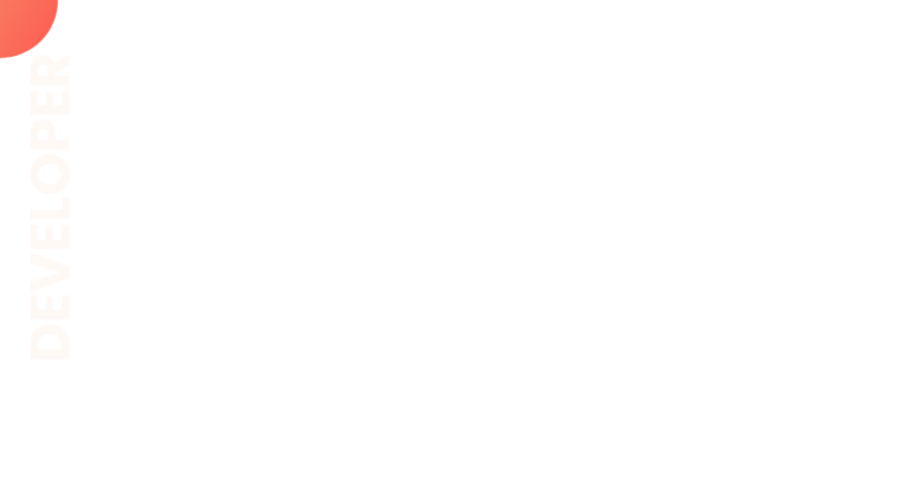
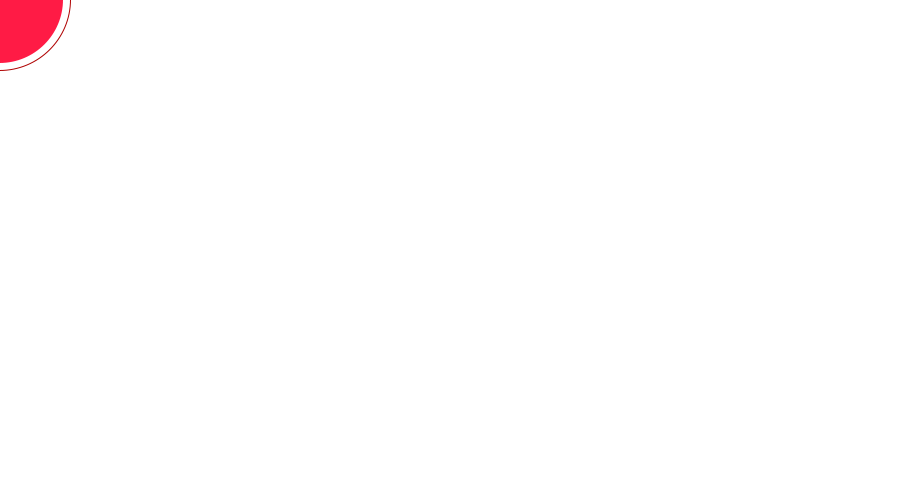
complete

Changed region(s): [[0.0, 0.0, 0.0935, 0.15]]

diff --git a/index.html b/index.html
@@ -8,55 +8,81 @@
     <title>Khairul Istiyak</title>
     <link rel="preconnect" href="https://fonts.googleapis.com">
     <link rel="preconnect" href="https://fonts.gstatic.com" crossorigin>
-    <link href="https://fonts.googleapis.com/css2?family=Lato&family=Poppins&display=swap" rel="stylesheet">
+    <link href="https://fonts.googleapis.com/css2?family=Open+Sans&display=swap" rel="stylesheet">
     <link rel="stylesheet" href="style.css">
 </head>
 
 <body>
-    <section class="top-back">
+    <section class="top-backround flexible-container">
         <div class="half-width">
-            <h1>Welcome To <br><span class="name">World cute</span> baby girl</h1>
-            <h1></h1>
+            <h1>Welcome To</h1>
+            <h1><span>World cute baby</span> girl</h1>
             <h3>Baby Girl Quotes to Celebrate Your Bundle of Joy.</h3>
             <hr>
             <p>A little girl is sugar and spice and everything nice—especially when she's taking a nap. Anonymous
-                Just when you think you know love, something little comes along to remind you just how big it really is.
-                AnonymousI'll love you forever, I'll like you for always, as long as I'm living my baby you'll be.
-                Robert N. MunschI'll love you forever, I'll like you for always, as long as I'm living my baby you'll
-                be.Robert n.
-            </p>
+                Just
+                when
+                you think you know love, something little comes along to remind you just how big it really is.
+                AnonymousI'll
+                love you forever, I'll like you for always, as long as I'm living my baby you'll be. Robert N.
+                MunschI'll
+                love you forever, I'll like you for always, as long as I'm living my baby you'll be.Robert n.</p>
             <hr><br>
-            <a class="albumes" target="_blank"
-                href="https://www.facebook.com/media/set/?set=a.956227351861817&type=3">Albums</a>
+            <a target="_blank" class="link-button" href="https://www.youtube.com/c/KhairulIstiyak">Youtube</a>
         </div>
-        <div class="half-width img">
-            <img src="images/my-bg2.png" alt="mamoni" style="width:500px">
+        <div class="half-width">
+            <img src="images/my-bg.png" alt="">
+        </div>
 
-        </div>
     </section>
-
-
-    <section class="queen">
-        <div class="half-width-2">
-            <img src="images/my-bg4.png" alt="" style="width:500px">
-
+    <section class="queen-girl flexible-container">
+        <div class="half-width">
+            <img src="images/my-bg2.png" alt="">
         </div>
 
-        <div class="half-width-2">
-            <h1><span class="name">Queen</span> girl</h1>
-            <h3> Queen of children.</h3>
-            <p class="mam">A little girl is sugar and spice and everything nice—especially when she's taking a nap.
-                Anonymous
-                Just when you think you know love, something little comes along to remind you just how big it really is.
+        <div class="half-width">
+            <h1>Queen <span>girl</span></h1>
+            <h3>Queen of children.</h3>
+            <hr>
+            <P>A little girl is sugar and spice and everything nice—especially when she's taking a nap. Anonymous Just
+                when you think you know love, something little comes along to remind you just how big it really is.
                 AnonymousI'll love you forever, I'll like you for always, as long as I'm living my baby you'll be.
                 Robert N. MunschI'll love you forever, I'll like you for always, as long as I'm living my baby you'll
-                be.Robert n.
-            </p>
-            <a class="albumes" target="_blank"
-                href="https://www.facebook.com/media/set/?set=a.956227351861817&type=3">Let's go albums</a>
+                be.Robert n.</P>
+            <hr><br>
+            <a target="_blank" class="link-button" href=https://www.facebook.com/khairulistiyak10>Let's go facebook</a>
         </div>
 
     </section>
+    <section class="heltch-tips">
+        <h1>Baby heltch tips</h1>
+        <div class="flexible-container">
+            <div class="tips-box" id="one-boxu">
+                <h2>Sleeping tips</h2>
+                <h3 class="tag-line-color">Stop obsessing about being tired.</h3>
+                <p>
+                    One night it's Mom's turn to rock the cranky baby, the next it's Dad's turn. Amy Reichardt and her
+                    husband, Richard, parents in Denver, worked out a system for the weekends, when Richard was off from
+                    work.
+                </p>
+            </div>
+            <div class="tips-box" id="soothing">
+                <h2>Soothing</h2>
+                <h3 class="tag-line-color">The key to soothing fussy infants.</h3>
+                <p>
+                    is to mimic the womb. Swaddling, shushing, and swinging, as well as allowing babies to suck and
+                    holding
+                    them on their sides, may trigger a calming reflex," says Harvey Karp, MD, creator of The Happiest
+                    Baby
+                    on the Block books, videos, and DVDs.
+                </p>
+            </div>
+        </div>
+    </section>
+
 </body>
+<footer>
+    <p>© Peter Parker 2023, a Programming Hero initiative.</p>
+</footer>
 
 </html>

diff --git a/style.css b/style.css
@@ -1,70 +1,95 @@
 body {
-    font-family: 'Lato', sans-serif;
-    font-family: 'Poppins', sans-serif;
+    font-family: 'Open Sans', sans-serif;
     margin: 0%;
+}
+
+h1 span {
+    color: #ff1b45;
+    font-weight: 700;
+    line-height: 1.6;
 }
 
 h1 {
     font-size: 50px;
-    line-height: 1.6;
 }
 
-p {
-    font-size: large;
-    color: #414042;
-    text-align: justify;
+h2 {
+    font-size: 40px;
+    color: #1d1d1d;
 }
 
-.name {
-    color: #ff1b45;
-}
-
-section {
+.flexible-container {
     display: flex;
-    margin-bottom: 180px;
+    margin-bottom: 100px;
 }
 
 .half-width {
     width: 50%;
     padding-left: 5%;
-}
-
-.half-width-2 {
-    padding-right: 15%;
-}
-
-.half-width img {
-    width: 100%;
     padding-right: 10%;
 }
 
-.albumes {
-    font-weight: 400;
-    color: white;
+.half-width img {
+    width: 80%;
+}
+
+.link-button {
     text-decoration: none;
-    background-image: repeating-linear-gradient(#ff1b45, #ac0011);
-    padding: 10px 10px;
-    border-radius: 5px;
+    background-image: linear-gradient(#fd1540, #c00023);
+    padding: 10px 40px;
+    border-radius: 5%;
+    font-weight: 700;
+    color: white;
 }
 
-.img {
-    height: 50px;
-    width: 50px;
+p {
+    text-align: justify;
+    color: #414042;
 }
 
-.top-back {
-    background-image: url(images/top-banner01.png);
+.top-backround {
+    background-image: url(images/top-banner.png);
     background-repeat: no-repeat;
 }
 
-.queen {
+.queen-girl {
     background-image: url(images/dream-bg.png);
     background-repeat: no-repeat;
     background-position: right;
 }
 
-.mam {
-    font-size: large;
-    color: #414042;
-    text-align: justify;
+.tag-line-color {
+    color: #1e0006;
+}
+
+.tips-box {
+    box-shadow: 10px 10px 40px grey;
+    width: 40%;
+    margin-left: 5%;
+    margin-left: 5%;
+    padding-left: 20px;
+    border-radius: 10px;
+    padding-right: 5%;
+}
+
+.heltch-tips {
+    background-image: url(images/exp-bg.png);
+    background-repeat: no-repeat;
+    background-position: left;
+    padding-right: 3%;
+    padding-left: 3%;
+}
+
+#soothing {
+    border-left: solid 7px;
+    color: #fd1540;
+}
+
+#one-boxu {
+    border-left: solid 9px;
+    color: #1e1e1e;
+}
+
+footer p {
+    text-align: center;
 }

diff --git a/README.md b/README.md
@@ -1,0 +1,2 @@
+# developer-portfolio
+### Live Website: [https://programminghero1.github.io/developer-portfolio/](https://programminghero1.github.io/developer-portfolio/)
